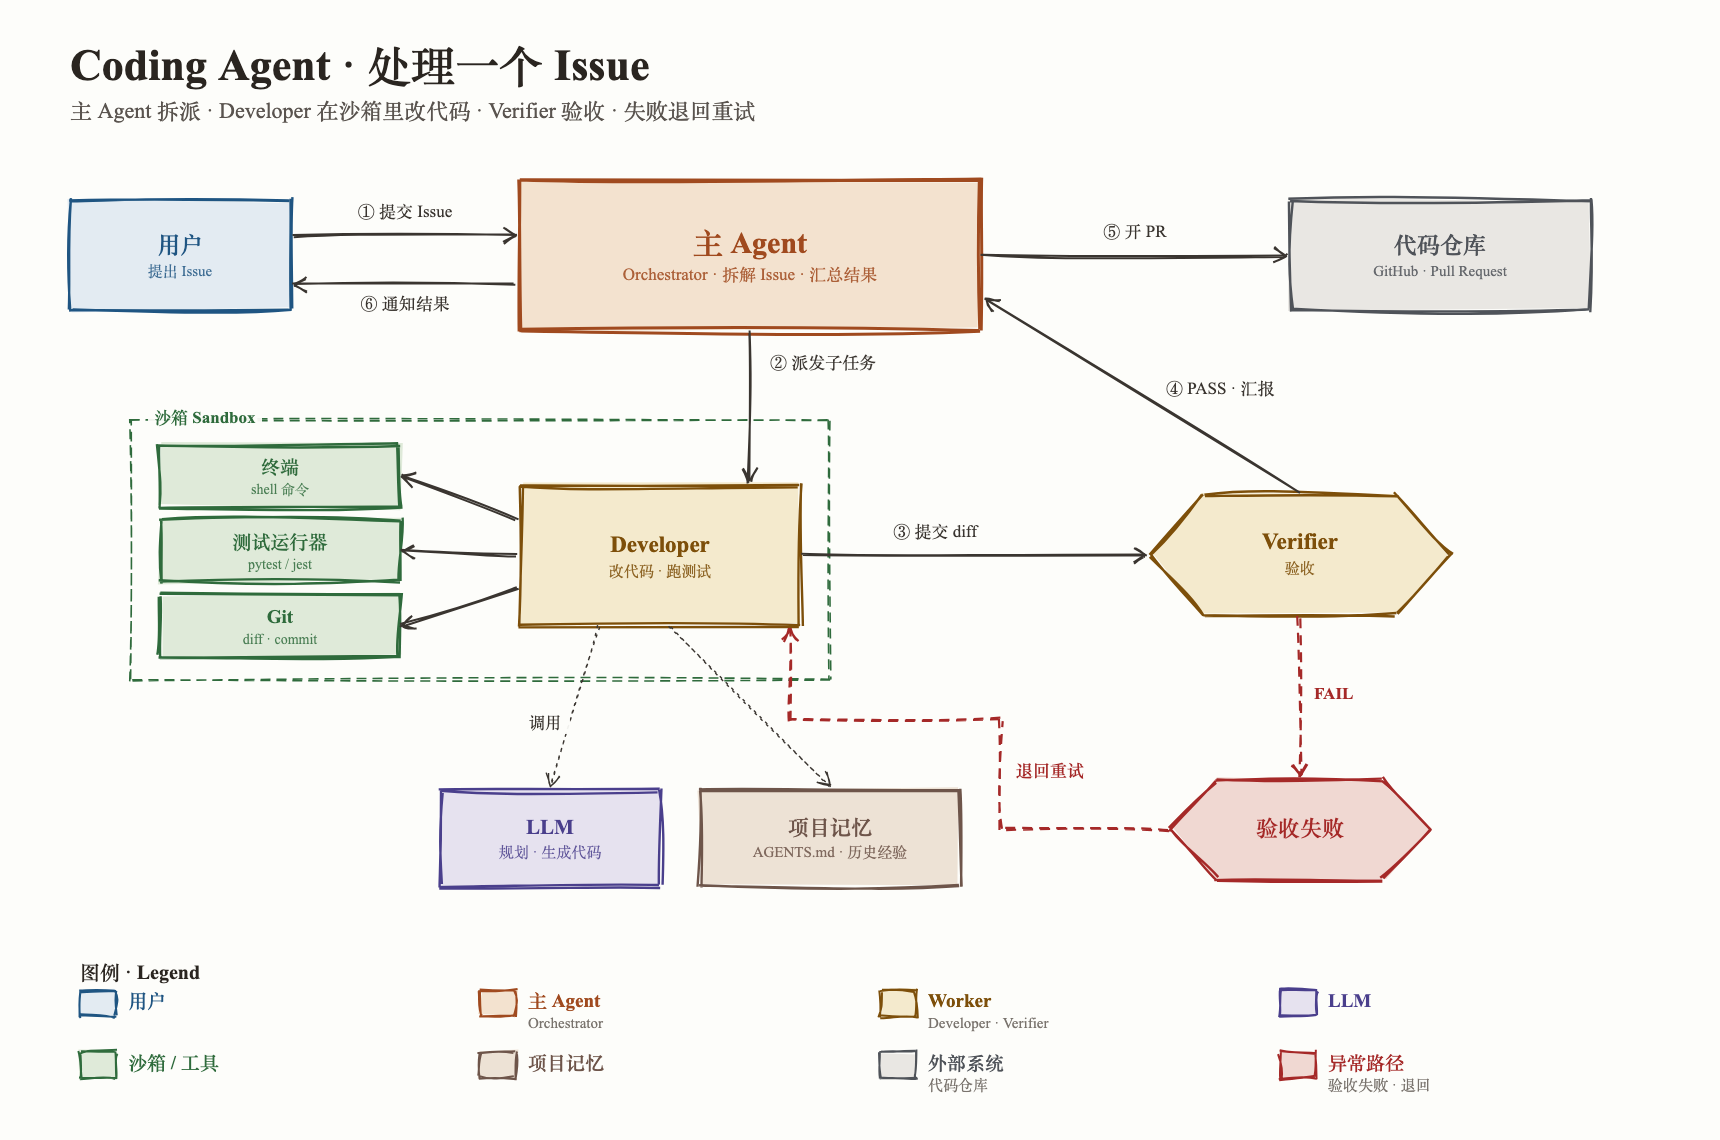
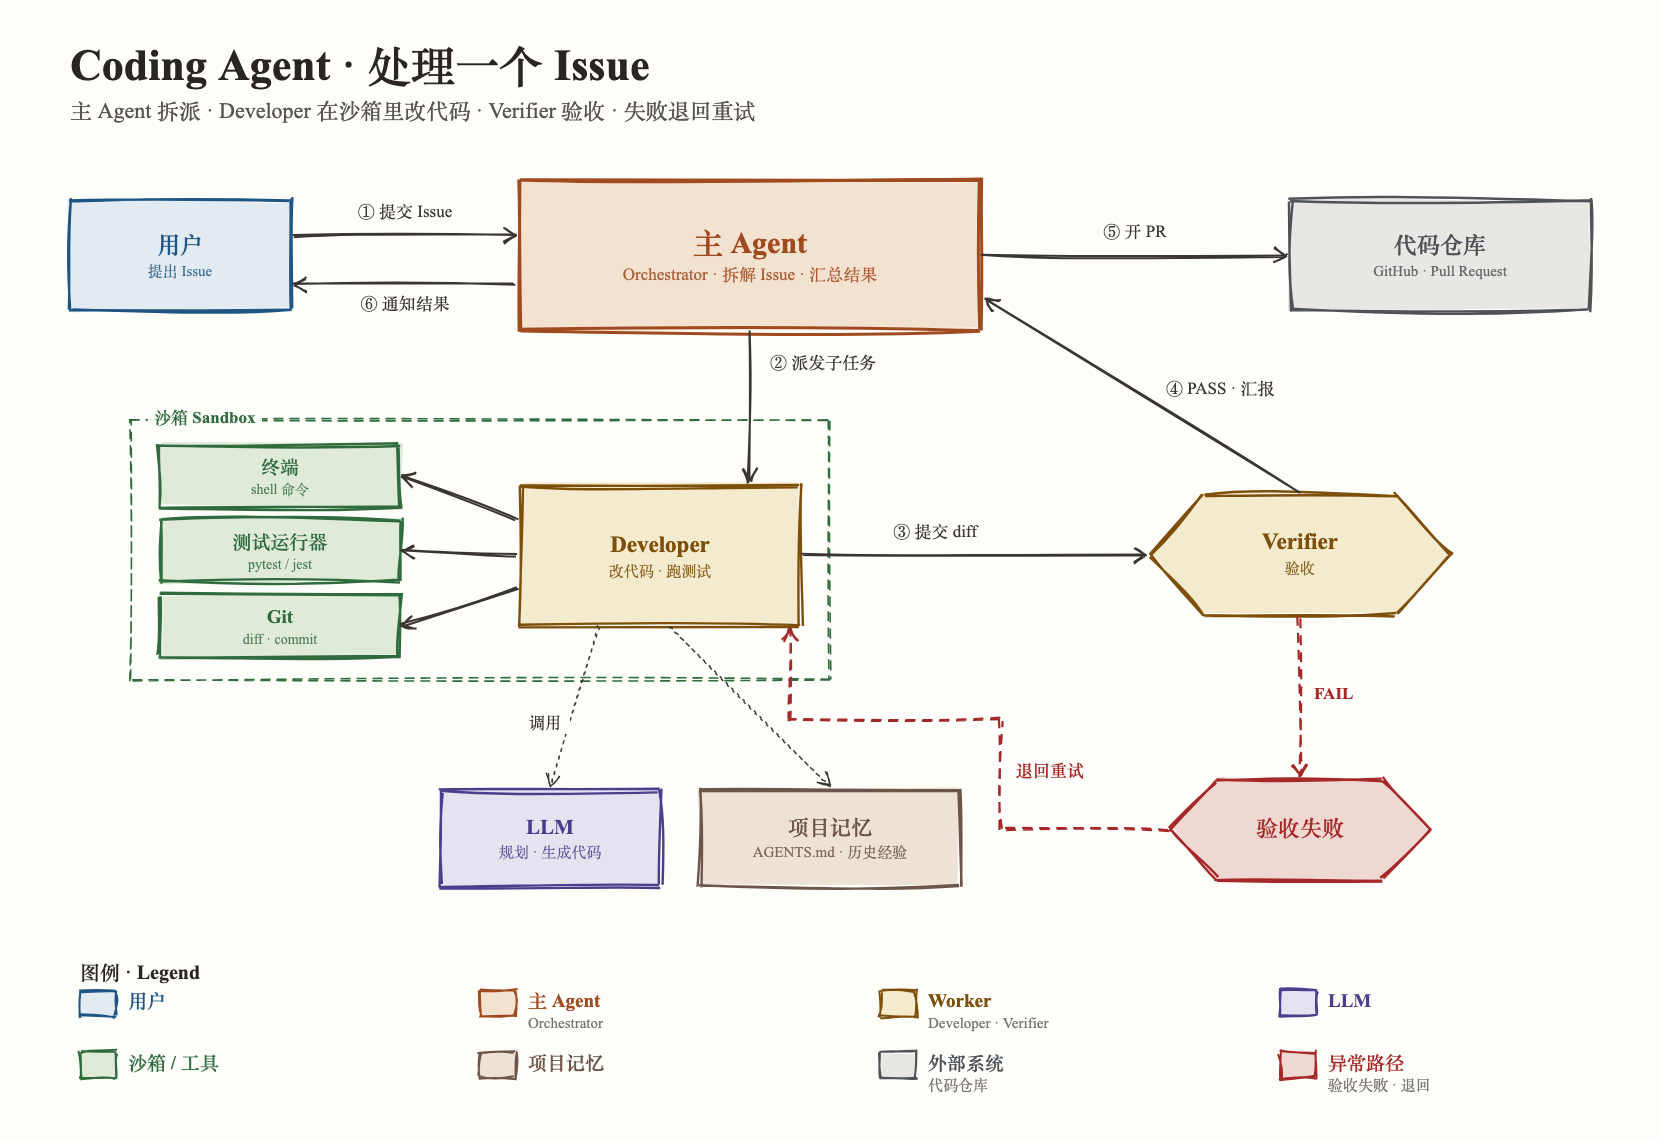
tech-diagram: trim the right margin the new margin warning found in two examples

diff --git a/skills/tech-diagram/examples/coding_agent.html b/skills/tech-diagram/examples/coding_agent.html
@@ -40,7 +40,7 @@
 // ============================================================
 //  CANVAS SIZE — the only place to set it. scripts/render.mjs reads the stage size.
 // ============================================================
-const W = 1720, H = 1140;
+const W = 1660, H = 1140;
 
 const stage = document.getElementById('stage');
 stage.style.width = W + 'px'; stage.style.height = H + 'px';

diff --git a/skills/tech-diagram/examples/sequence.html b/skills/tech-diagram/examples/sequence.html
@@ -40,7 +40,7 @@
 // ============================================================
 //  CANVAS SIZE — the only place to set it. scripts/render.mjs reads the stage size.
 // ============================================================
-const W = 1720, H = 1260;
+const W = 1660, H = 1260;
 
 const stage = document.getElementById('stage');
 stage.style.width = W + 'px'; stage.style.height = H + 'px';
